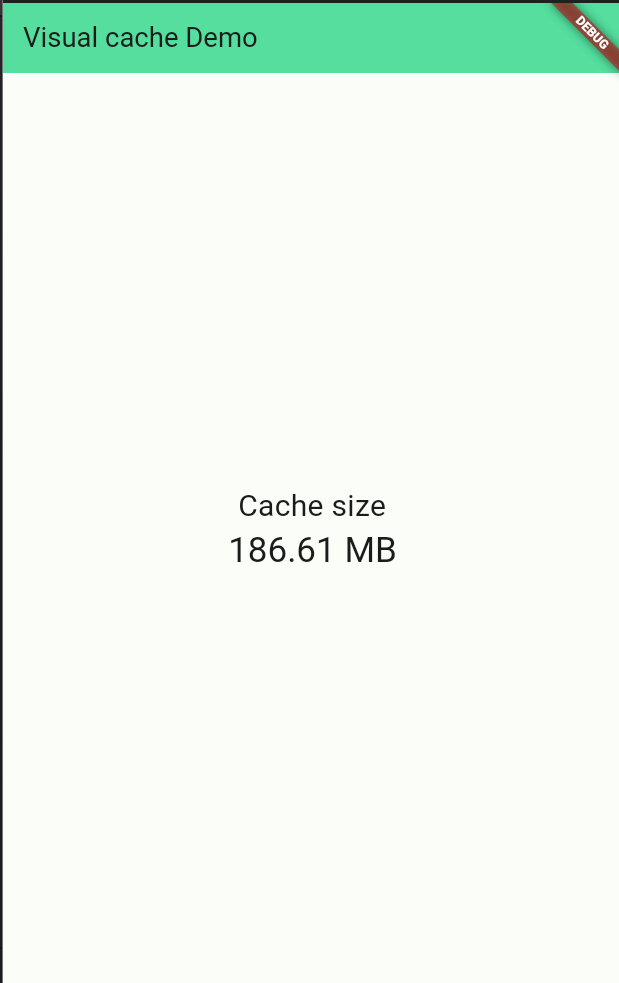
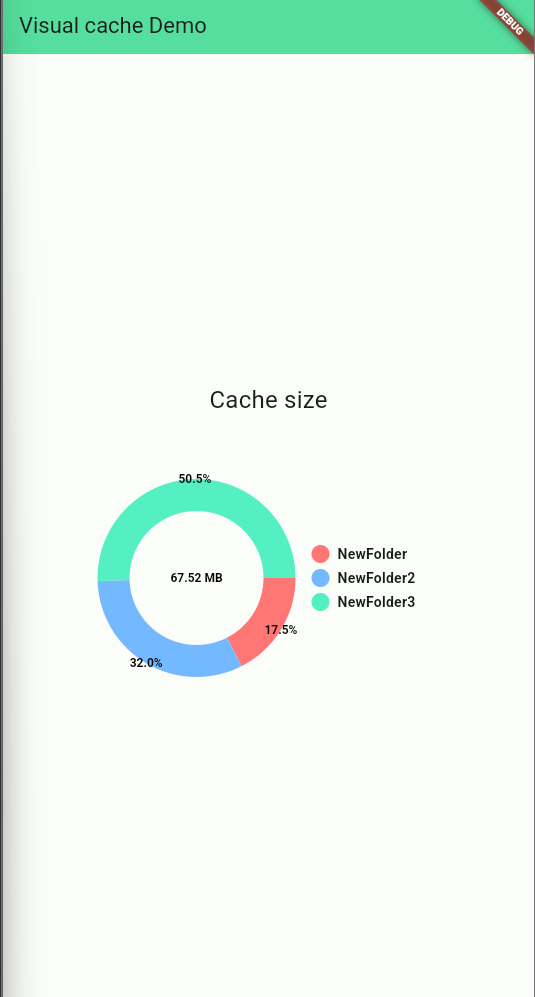
Version 1.0.0-betta.1

Changed region(s): [[0.0, 0.0, 1.0, 1.0], [0.1794, 0.4578, 0.7776, 0.7019], [0.3888, 0.3967, 0.628, 0.4273]]

diff --git a/lib/widget/visual_widget.dart b/lib/widget/visual_widget.dart
@@ -1,0 +1,61 @@
+import 'package:flutter/material.dart';
+import 'package:pie_chart/pie_chart.dart';
+import 'package:visual_cache/visual_cache.dart';
+
+class VisualCacheWidget extends StatelessWidget {
+  final List<String>? subdirectories;
+
+  const VisualCacheWidget({super.key, this.subdirectories});
+
+  @override
+  Widget build(BuildContext context) {
+    return FutureBuilder<Map<String, int>>(
+      future: VisualCache().getCacheSizeDetails(subdirectories: subdirectories),
+      builder: (context, snapshot) {
+        if (snapshot.connectionState == ConnectionState.waiting) {
+          return const SizedBox();
+        } else if (snapshot.hasError) {
+          return Text('Error: ${snapshot.error}');
+        } else if (snapshot.hasData) {
+          // Convert the data to a format suitable for the pie chart
+          final dataMap = <String, double>{
+
+          };
+          snapshot.data!.forEach((key, value) {
+            dataMap[key] = value / (1024 * 1024).toDouble(); // Size in MB
+          });
+
+          double totalSizeInMB = dataMap.values.fold(0, (sum, item) => sum + item);
+
+          return PieChart(
+            dataMap: dataMap,
+            animationDuration: const Duration(milliseconds: 800),
+            chartLegendSpacing: 32,
+            chartRadius: MediaQuery.of(context).size.width / 3.2,
+            chartType: ChartType.ring,
+            ringStrokeWidth: 32,
+            centerText: '${totalSizeInMB.toStringAsFixed(2)} MB',
+            legendOptions: const LegendOptions(
+              showLegendsInRow: false,
+              legendPosition: LegendPosition.right,
+              showLegends: true,
+              legendTextStyle: TextStyle(
+                fontWeight: FontWeight.bold,
+              ),
+            ),
+            chartValuesOptions: const ChartValuesOptions(
+
+              showChartValueBackground: false,
+              showChartValues: true,
+              showChartValuesInPercentage: true,
+              showChartValuesOutside: true,
+              decimalPlaces: 1,
+            ),
+          );
+        } else {
+          return const Text('No data available');
+        }
+      },
+    );
+  }
+}

diff --git a/example/lib/main.dart b/example/lib/main.dart
@@ -1,5 +1,5 @@
 import 'package:flutter/material.dart';
-import 'package:visual_cache/visual_cache.dart';
+import 'package:visual_cache/widget/visual_widget.dart';
 
 void main() {
   runApp(const MyApp());
@@ -35,38 +35,22 @@ class _MyHomePageState extends State<MyHomePage> {
   Widget build(BuildContext context) {
     return Scaffold(
       appBar: AppBar(
-        backgroundColor: Theme.of(context).colorScheme.inversePrimary,
         title: Text(widget.title),
       ),
-      body: Center(
+      body: const Center(
         child: Column(
           mainAxisAlignment: MainAxisAlignment.center,
           children: <Widget>[
-            const Text(
+            Text(
               'Cache size',
               style: TextStyle(fontSize: 24),
             ),
-            FutureBuilder<String>(
-              future: VisualCache().getCacheSize(),
-              builder: (BuildContext context, AsyncSnapshot<String> snapshot) {
-                if (snapshot.connectionState == ConnectionState.waiting) {
-                  // Display a loading indicator while waiting for the future to complete
-                  return const CircularProgressIndicator();
-                } else if (snapshot.hasError) {
-                  // Handle the error case
-                  return Text('Error: ${snapshot.error}');
-                } else {
-                  // When data is ready, display it
-                  return Text(
-                    snapshot.data ?? 'Cache size not available',
-                    style: Theme.of(context).textTheme.headlineMedium,
-                  );
-                }
-              },
-            )
+             SizedBox(height: 70,),
+
+             VisualCacheWidget(subdirectories: ['NewFolder','NewFolder2', 'NewFolder3'],)
           ],
         ),
-      ), // This trailing comma makes auto-formatting nicer for build methods.
+      ),
     );
   }
 }

diff --git a/lib/visual_cache.dart b/lib/visual_cache.dart
@@ -1,18 +1,31 @@
 library visual_cache;
 
 import 'dart:io';
+import 'package:flutter/material.dart';
 import 'package:path_provider/path_provider.dart';
 
 class VisualCache {
   /// Gets the cache directory and returns its size in MB or GB.
-  Future<String> getCacheSize() async {
+  /// Gets the specified cache subdirectories and returns their total size in MB or GB.
+  /// If no subdirectories are specified, it returns the size of the entire cache directory.
+  Future<Map<String, int>> getCacheSizeDetails({List<String>? subdirectories}) async {
     final cacheDir = await getTemporaryDirectory();
-    final cacheSize = await _calculateDirectorySize(cacheDir);
+    Map<String, int> sizes = {};
 
-    // Convert size to MB or GB
-    return (cacheSize / (1024 * 1024)) < 1024
-        ? '${(cacheSize / (1024 * 1024)).toStringAsFixed(2)} MB'
-        : '${(cacheSize / (1024 * 1024 * 1024)).toStringAsFixed(2)} GB';
+    if (subdirectories == null || subdirectories.isEmpty) {
+      sizes['Total Cache'] = await _calculateDirectorySize(cacheDir);
+    } else {
+      for (var subdir in subdirectories) {
+        final subDirPath = Directory('${cacheDir.path}/$subdir');
+        if (await subDirPath.exists()) {
+          sizes[subdir] = await _calculateDirectorySize(subDirPath);
+        } else {
+          sizes[subdir] = 0; // Or exclude this line if you don't want to show empty directories
+        }
+      }
+    }
+
+    return sizes;
   }
 
   /// Recursively calculates the size of a directory and its subdirectories.
@@ -26,7 +39,7 @@ class VisualCache {
         }
       }
     } catch (e) {
-      print('Error calculating directory size: $e');
+      debugPrint('Error calculating directory size: $e');
     }
     return size;
   }

diff --git a/README.md b/README.md
@@ -7,6 +7,7 @@ A Flutter package for easily obtaining the size of the application cache. `Visua
 - Get the cache size of your Flutter application.
 - Display cache size in MB or GB.
 - Easy to integrate and use in any Flutter app.
+- Ability to add your own directories.
 
 
 ## Screenshots
@@ -25,7 +26,7 @@ Add `Visual Cache` as a dependency in your `pubspec.yaml` file:
 dependencies:
   flutter:
     sdk: flutter
-  visual_cache: ^0.1.0-alpha
+  visual_cache: ^1.0.0-betta.1
 ```
 
 ## Usage
@@ -34,22 +35,8 @@ dependencies:
 // Import package
 import 'package:visual_cache/visual_cache.dart';
 
-// Show cache
-FutureBuilder<String>(
-  future: VisualCache().getCacheSize(),
-  builder: (BuildContext context, AsyncSnapshot<String> snapshot) {
-    if (snapshot.connectionState == ConnectionState.waiting) {
-      return CircularProgressIndicator();
-    } else if (snapshot.hasError) {
-      return Text('Error: ${snapshot.error}');
-    } else {
-      return Text(
-        snapshot.data ?? 'Cache size not available',
-        style: Theme.of(context).textTheme.headlineMedium,
-      );
-    }
-  },
-)
+// Show cache chart
+VisualCacheWidget(subdirectories: ['NewFolder','NewFolder2', 'NewFolder3'],)
 ```
  
 Available temporarily only for `Android`

diff --git a/CHANGELOG.md b/CHANGELOG.md
@@ -6,3 +6,14 @@
 
 * Platform support updates
 * Update README.md
+
+## 1.0.0-betta.1
+
+* Now you don’t need to write a grammar construct, now you just need to call the VisualCacheWidget() widget;
+* Added visual cache viewing using the pie_chart 5.4.0 library;
+* Added the ability to add your own directory. Example:    
+``` dart 
+VisualCacheWidget(subdirectories: ['NewFolder','NewFolder2', 'NewFolder3'],)
+```
+* Update README.md;
+* Bug fixes;
